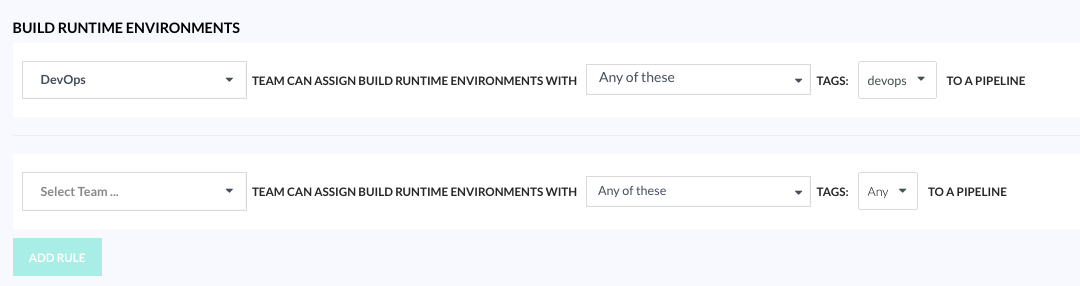
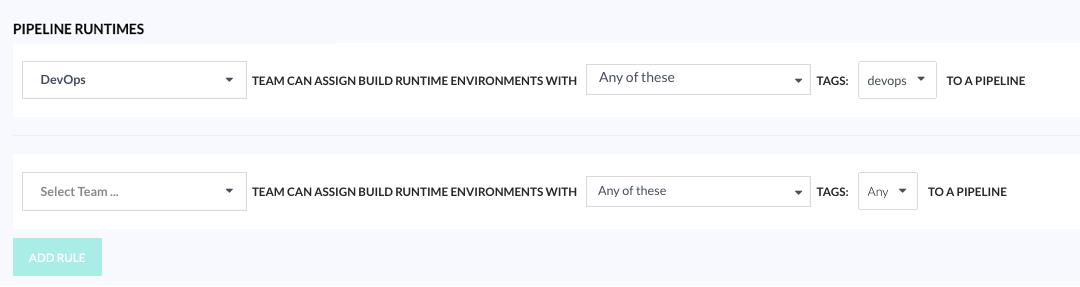
Update access control
Replace Build Runtime Environment rule title with Pipeline Runtimes; also updated relevant screenshots

diff --git a/_docs/administration/account-user-management/access-control.md b/_docs/administration/account-user-management/access-control.md
@@ -160,7 +160,7 @@ Or ensure that a development team working on a high-priority project can assign 
 1. Repeat to add more tags.
 1. When finished, click **Save**. 
 
-For examples, see [Creating rules for runtime environments](#creating-rules-for-runtime-environments).
+For examples, see [Creating rules for Pipeline Runtimes](#creating-rules-for-runtime-environments).
 
 ### Assign tags to projects 
 
@@ -240,7 +240,7 @@ For each rule, select:
 
 See [Define rules for entities/resources](#define-rules-for-entitiesresources). 
 
-Also review our examples in [Creating rules for pipelines by project tags](#creating-rules-for-pipelines-by-project-tags) and [Creating rules for runtime environments](#creating-rules-for-runtime-environments).
+Also review our examples in [Creating rules for pipelines by project tags](#creating-rules-for-pipelines-by-project-tags) and [Creating rules for Pipeline Runtimes](#creating-rules-for-pipeline-runtimes-and-runtime-environments).
 
 
 ### Define rules for entities/resources 
@@ -289,7 +289,7 @@ CRUD privileges define Create/Read/Update/Delete permissions available for the e
 | Entity          | Privilege                |  
 | --------------  | --------------                      | 
 | Cluster          |  {::nomarkdown}<ul><li><b>Create</b>: Granted to account administrators only.</li><li><b>Read</b>: View cluster integrations.</li><li><b>Update</b>: View and edit existing allowed cluster resources, including <a href="https://codefresh.io/docs/docs/ci-cd-guides/helm-best-practices/">installing, removing, and rollback Helm charts</a>.<br>Tags are managed from account settings, so this permission doesn’t apply to it currently.</li><li><b>Delete</b>: Granted to account administrators only.</li></ul>{:/}            | 
-| Build Runtime Environments          |  Allow teams to view Runtime Environments in pipelines by tags assigned to the Pipeline Runtimes. <br> See  <a href="https://codefresh.io/docs/docs/administration/account-user-management/access-control/#assign-tags-to-pipeline-runtimes">Assigning tags to Pipeline Runtimes</a>.| 
+| Pipeline Runtimes          |  Allow teams to view Runtime Environments in pipelines by tags assigned to the Pipeline Runtimes. <br> See  <a href="https://codefresh.io/docs/docs/administration/account-user-management/access-control/#assign-tags-to-pipeline-runtimes">Assigning tags to Pipeline Runtimes</a>.| 
 | Project          |  {::nomarkdown}<ul><li><b>Create</b>: Create projects, and add tags to the projects.</li><li><b>Read</b>: View projects.</li><li><b>Update</b>: View and edit projects, including the tags assigned to them.</li><li><b>Delete</b>: Delete projects.</li></ul>{:/}| 
 | Pipeline          | There are three levels of permissions for pipelines:{::nomarkdown}<ul><li><b>Access to pipelines by tags</b><ul><li><b>Create</b>: Create new pipelines and add tags to the pipelines when creating them. This permission does not include view and edit (which includes tagging them) or delete. This permission should also go hand in hand with additional permissions like read/edit untagged pipelines.</li><li><b>Read</b>: View allowed pipelines only.</li><li><b>Update</b>: View and edit allowed pipelines, including editing the tags assigned to them.<li><b>Delete</b>: Delete allowed pipelines only.</li><li><b>Run</b>: Run allowed pipelines only.</li><li><b>Approve</b>: Resume pipelines pending manual <a href="https://codefresh.io/docs/docs/pipelines/steps/approval">approval</a>.</li><li><b>Debug</b>: Use <a href="https://codefresh.io/docs/docs/pipelines/debugging-pipelines/">pipeline debugger</a>.</li></ul></li><li><b>Access to pipelines by projects and tags in projects</b><br> All or any of the above permissions for pipelines based on projects with/without/specified tags.</li><li><b>Access to runtime environments and resources in pipelines</b>.<br> Any permission assigned here must include also the Update permission.<ul><li><b>Manage resources</b>: Select the CPU, memory, and minimum disk space combination best suited for the runtime environment.</li><li><b>Set cloud builds</b>: Select cloud builds and adjust the resource size for the build.</li><li><b>Set runtime environment</b>: Assign a runtime environment to the pipeline from those available based on tags assigned to Pipeline Runtimes. <br>This permission requires also the Build Runtime Environments permission.</li></ul></li></ul>{:/}| 
 | Chart          |  **Read**: View Helm charts| 
@@ -448,13 +448,13 @@ We need to define a Create rule each for teams DevOps and Marvel, and then diffe
   max-width="70%"
   %}
 
-### Creating rules for runtime environments and resources
+### Creating rules for Pipeline Runtimes and runtime environments
 
-Create rules for runtime environments and how to use the environment and m resources in pipelines. 
+Create rules for runtime environments and how to use the environment and resources in pipelines. 
 
-#### Example 1: Create rule to define access to runtime environments
+#### Example 1: Create rule to define access to Pipelin Runtimes
 
-This example illustrates how to create rules for Build Runtime Environments to restrict access by teams, and grant the same team all privileges to manage runtime environments within pipelines. 
+This example illustrates how to create rules for Pipeline Runtimes to restrict access by teams, and grant the same team all privileges to manage runtime environments within pipelines. 
 
 **Scenario**:  
 We want the DevOps team to be able to:
@@ -471,9 +471,9 @@ We want the DevOps team to be able to:
 * Add the `devops` tag to one or more Pipeline Runtimes. See [Assign tags to Pipeline Runtimes](#assign-tags-to-pipeline-runtimes).
 
 
-**Step 2: Define the rule for Build Runtime Environments**    
+**Step 2: Define the rule for Pipeline Runtimes**    
 
-* Create a Build Runtime Environments rule for the `DevOps` team with _any of these_ tags:`devops`.
+* Create a Pipeline Runtimes rule for the `DevOps` team with _any of these_ tags:`devops`.
 
  {% include image.html
   lightbox="true"
